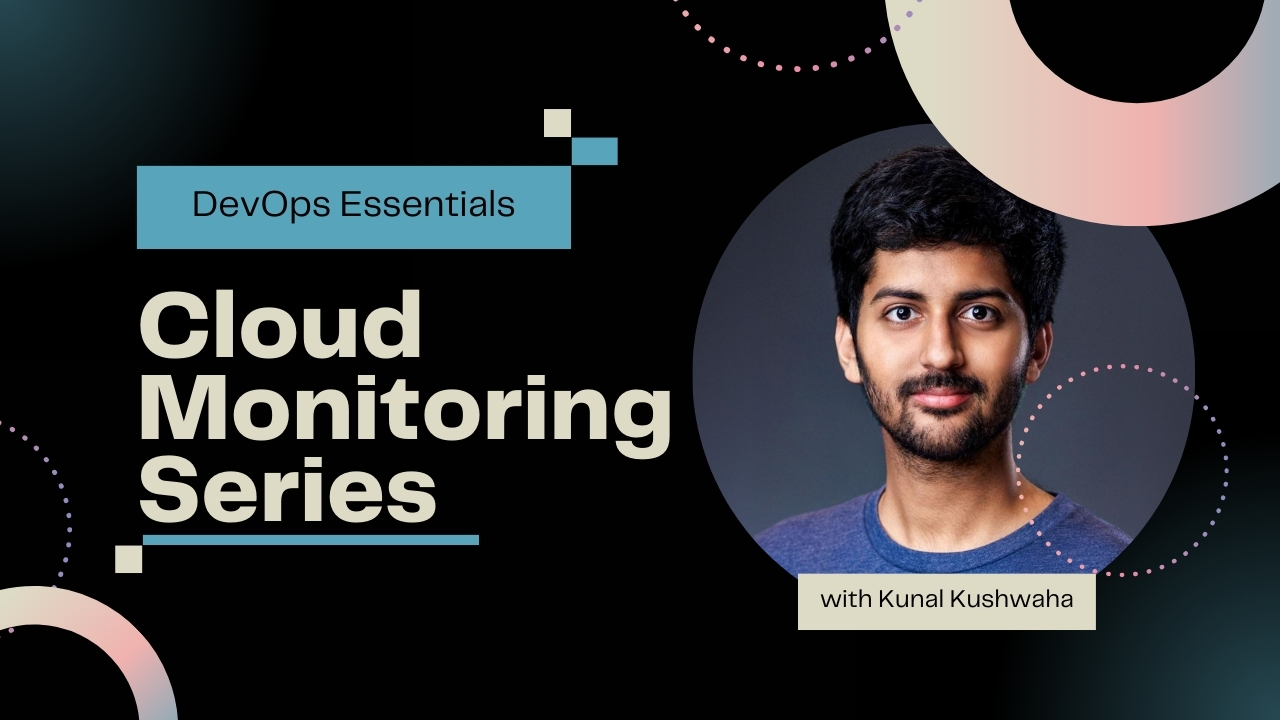
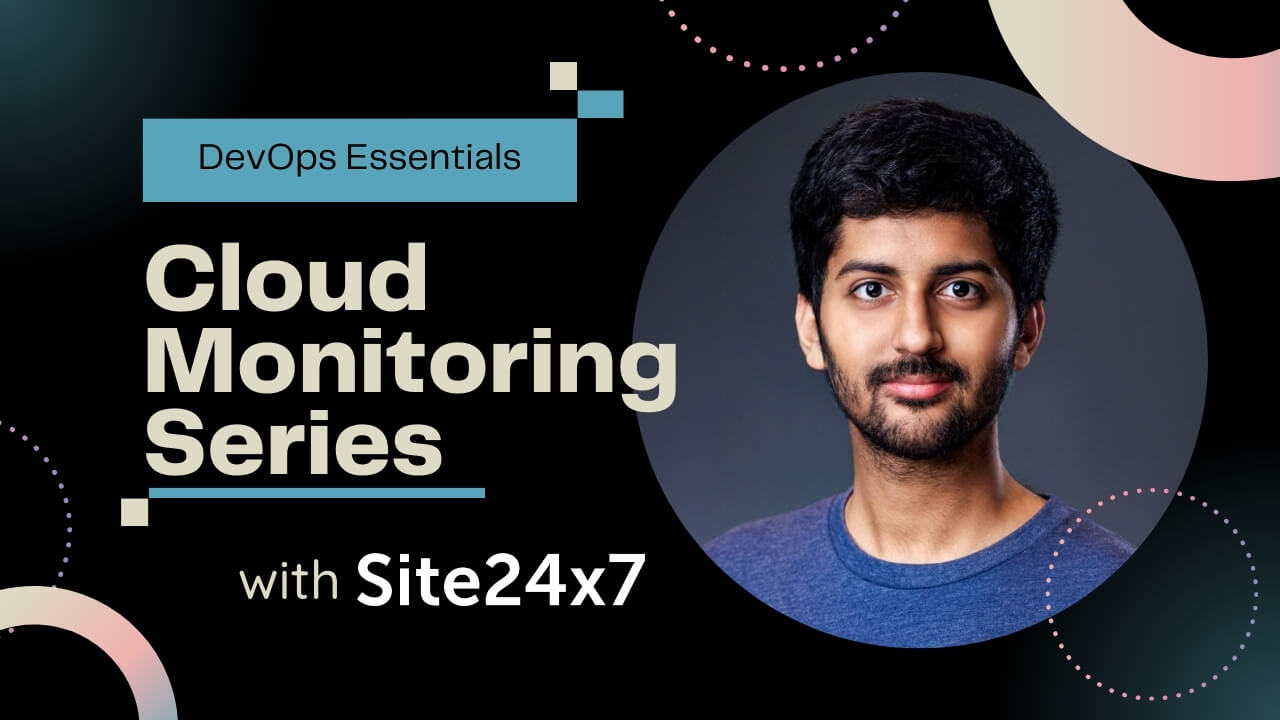
fix: change cloud monitoring embed video and thumbnail

diff --git a/src/constants/index.ts b/src/constants/index.ts
@@ -340,7 +340,7 @@ export const COURSES: CoursesInfo = [
       "In this course, you'll dive into the essentials of DevOps, exploring server monitoring with tools like Site24x7, optimizing application performance, mastering incident management protocols, and gaining insights into FinOps principles for efficient cloud cost management.",
     image: courseCloudMonitoring,
     introVideoEmbedLink:
-      'https://www.youtube.com/embed/4Mmf6hHrv3w?si=PnxNVQrA3kEmxDL7',
+      'https://www.youtube.com/embed/ECg1RuQwD0I?si=hrUFK8_ddIPA_qVh',
     slug: 'monitoring-site24x7',
     resources: [
       {
